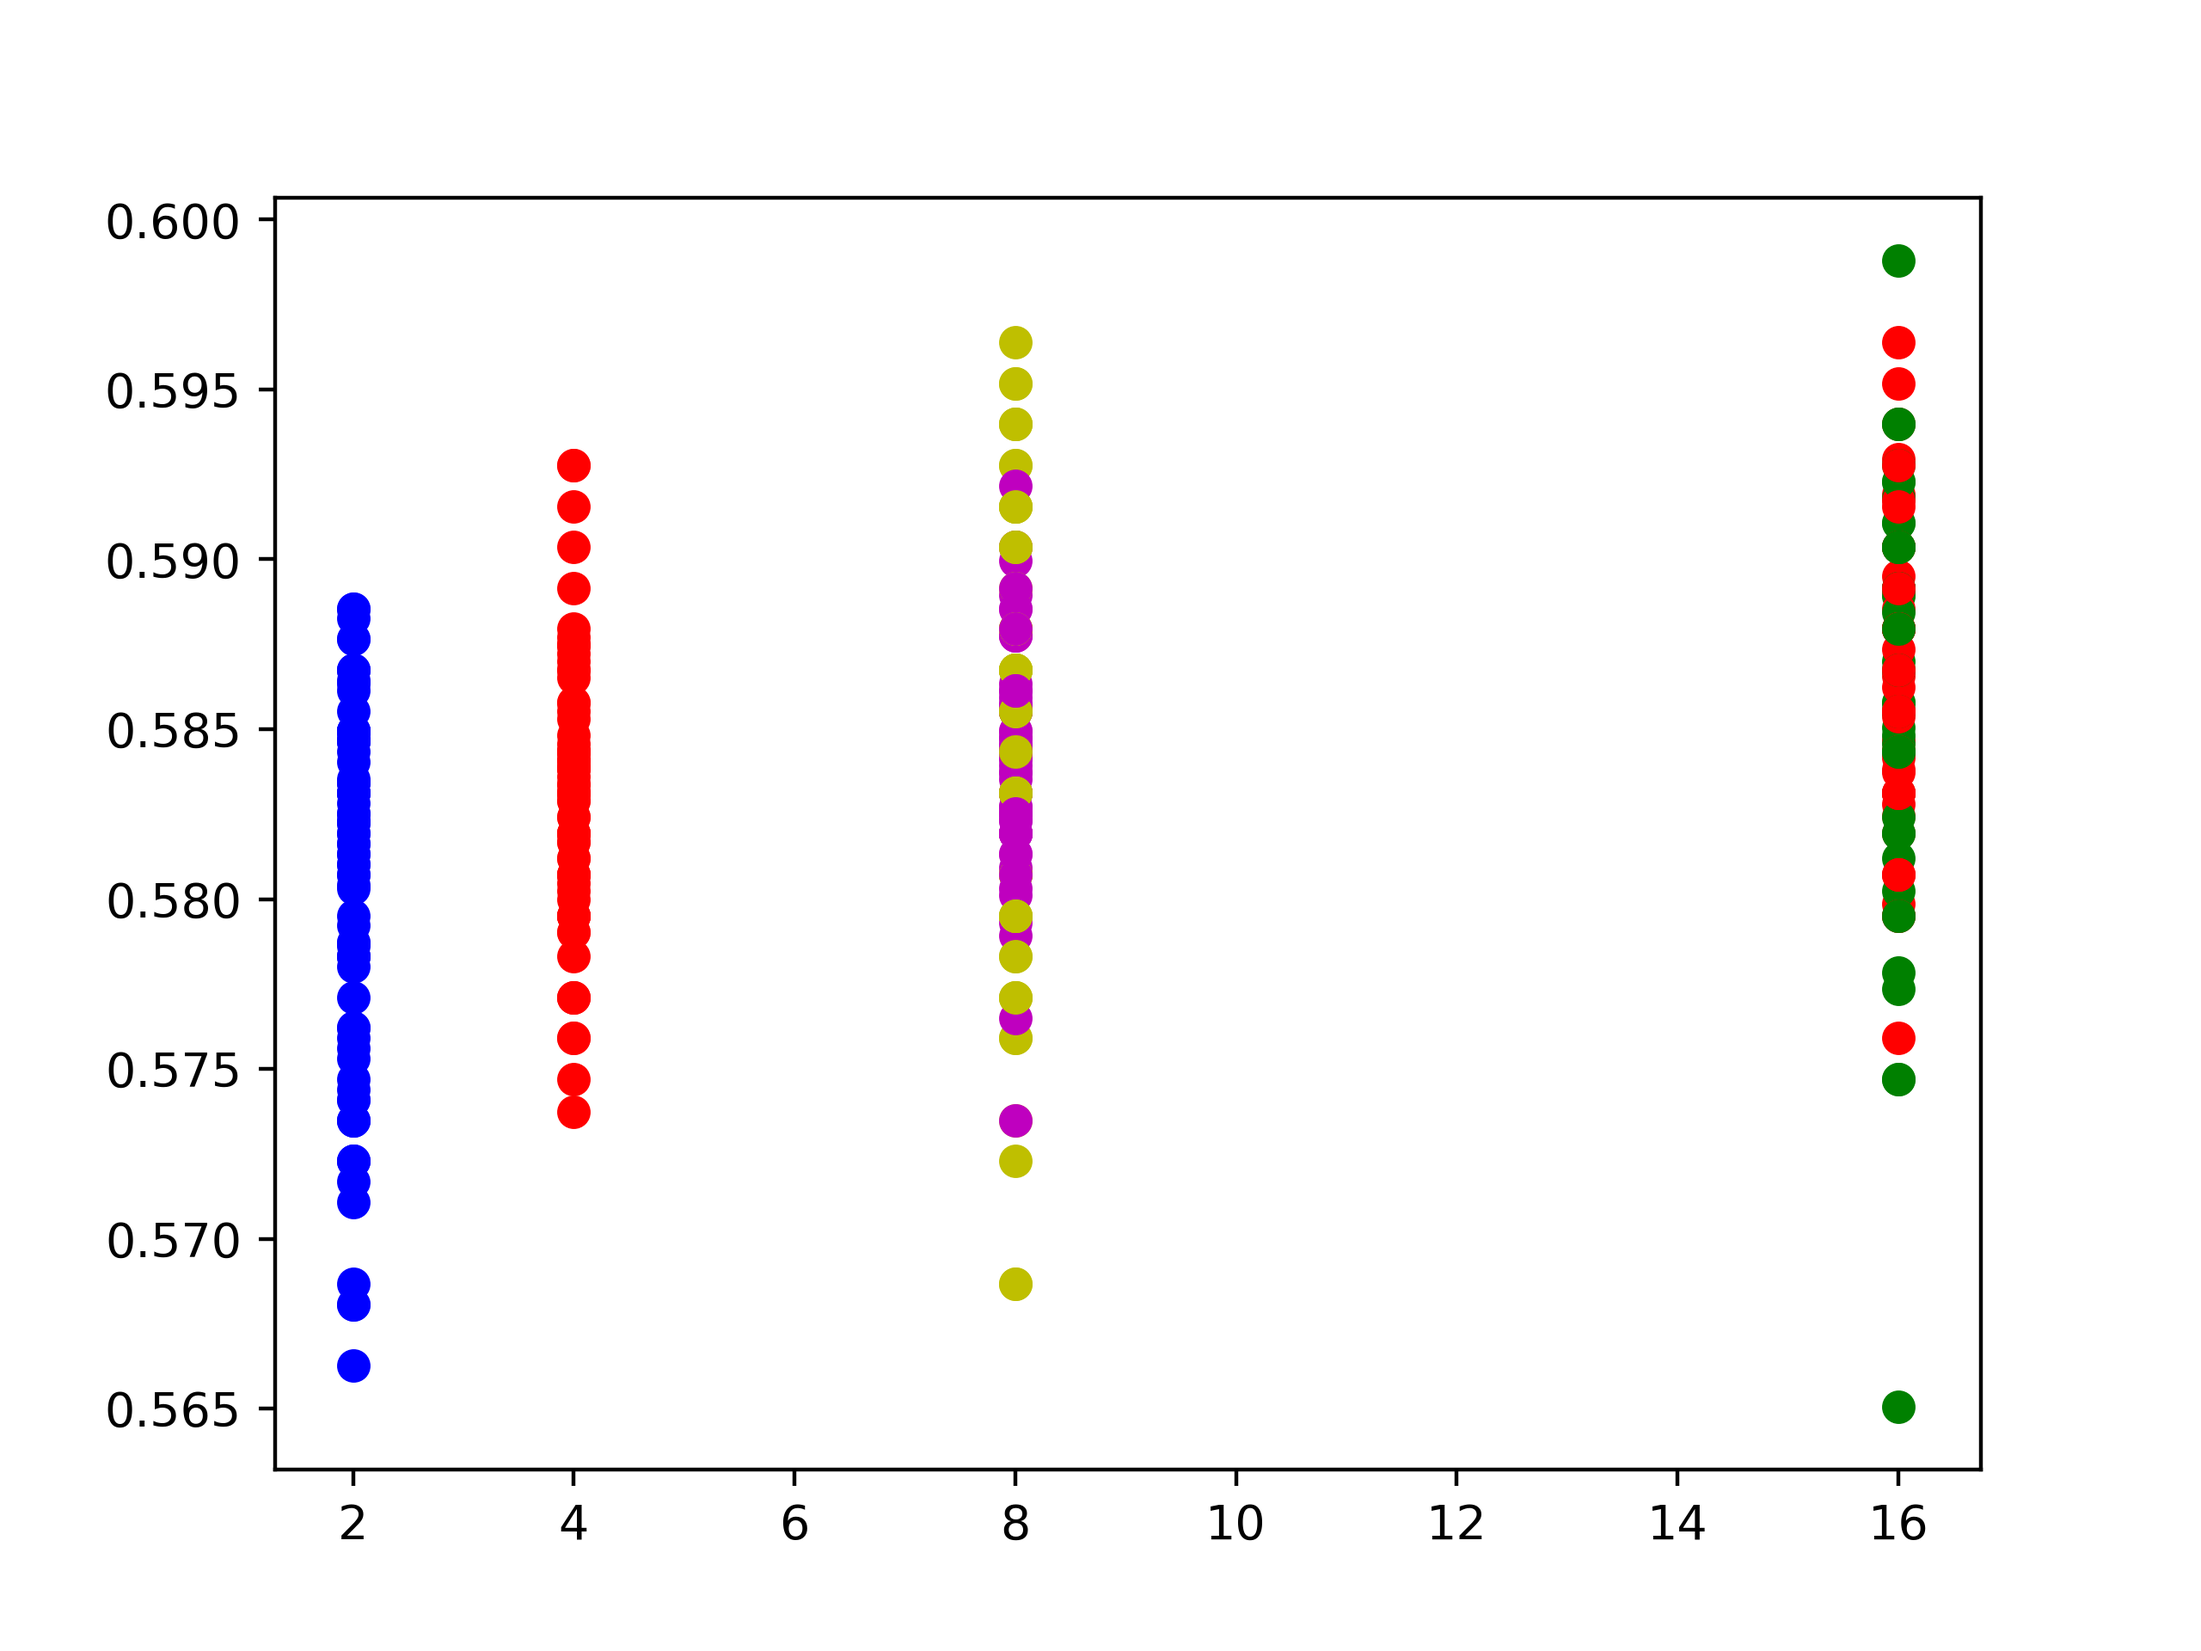
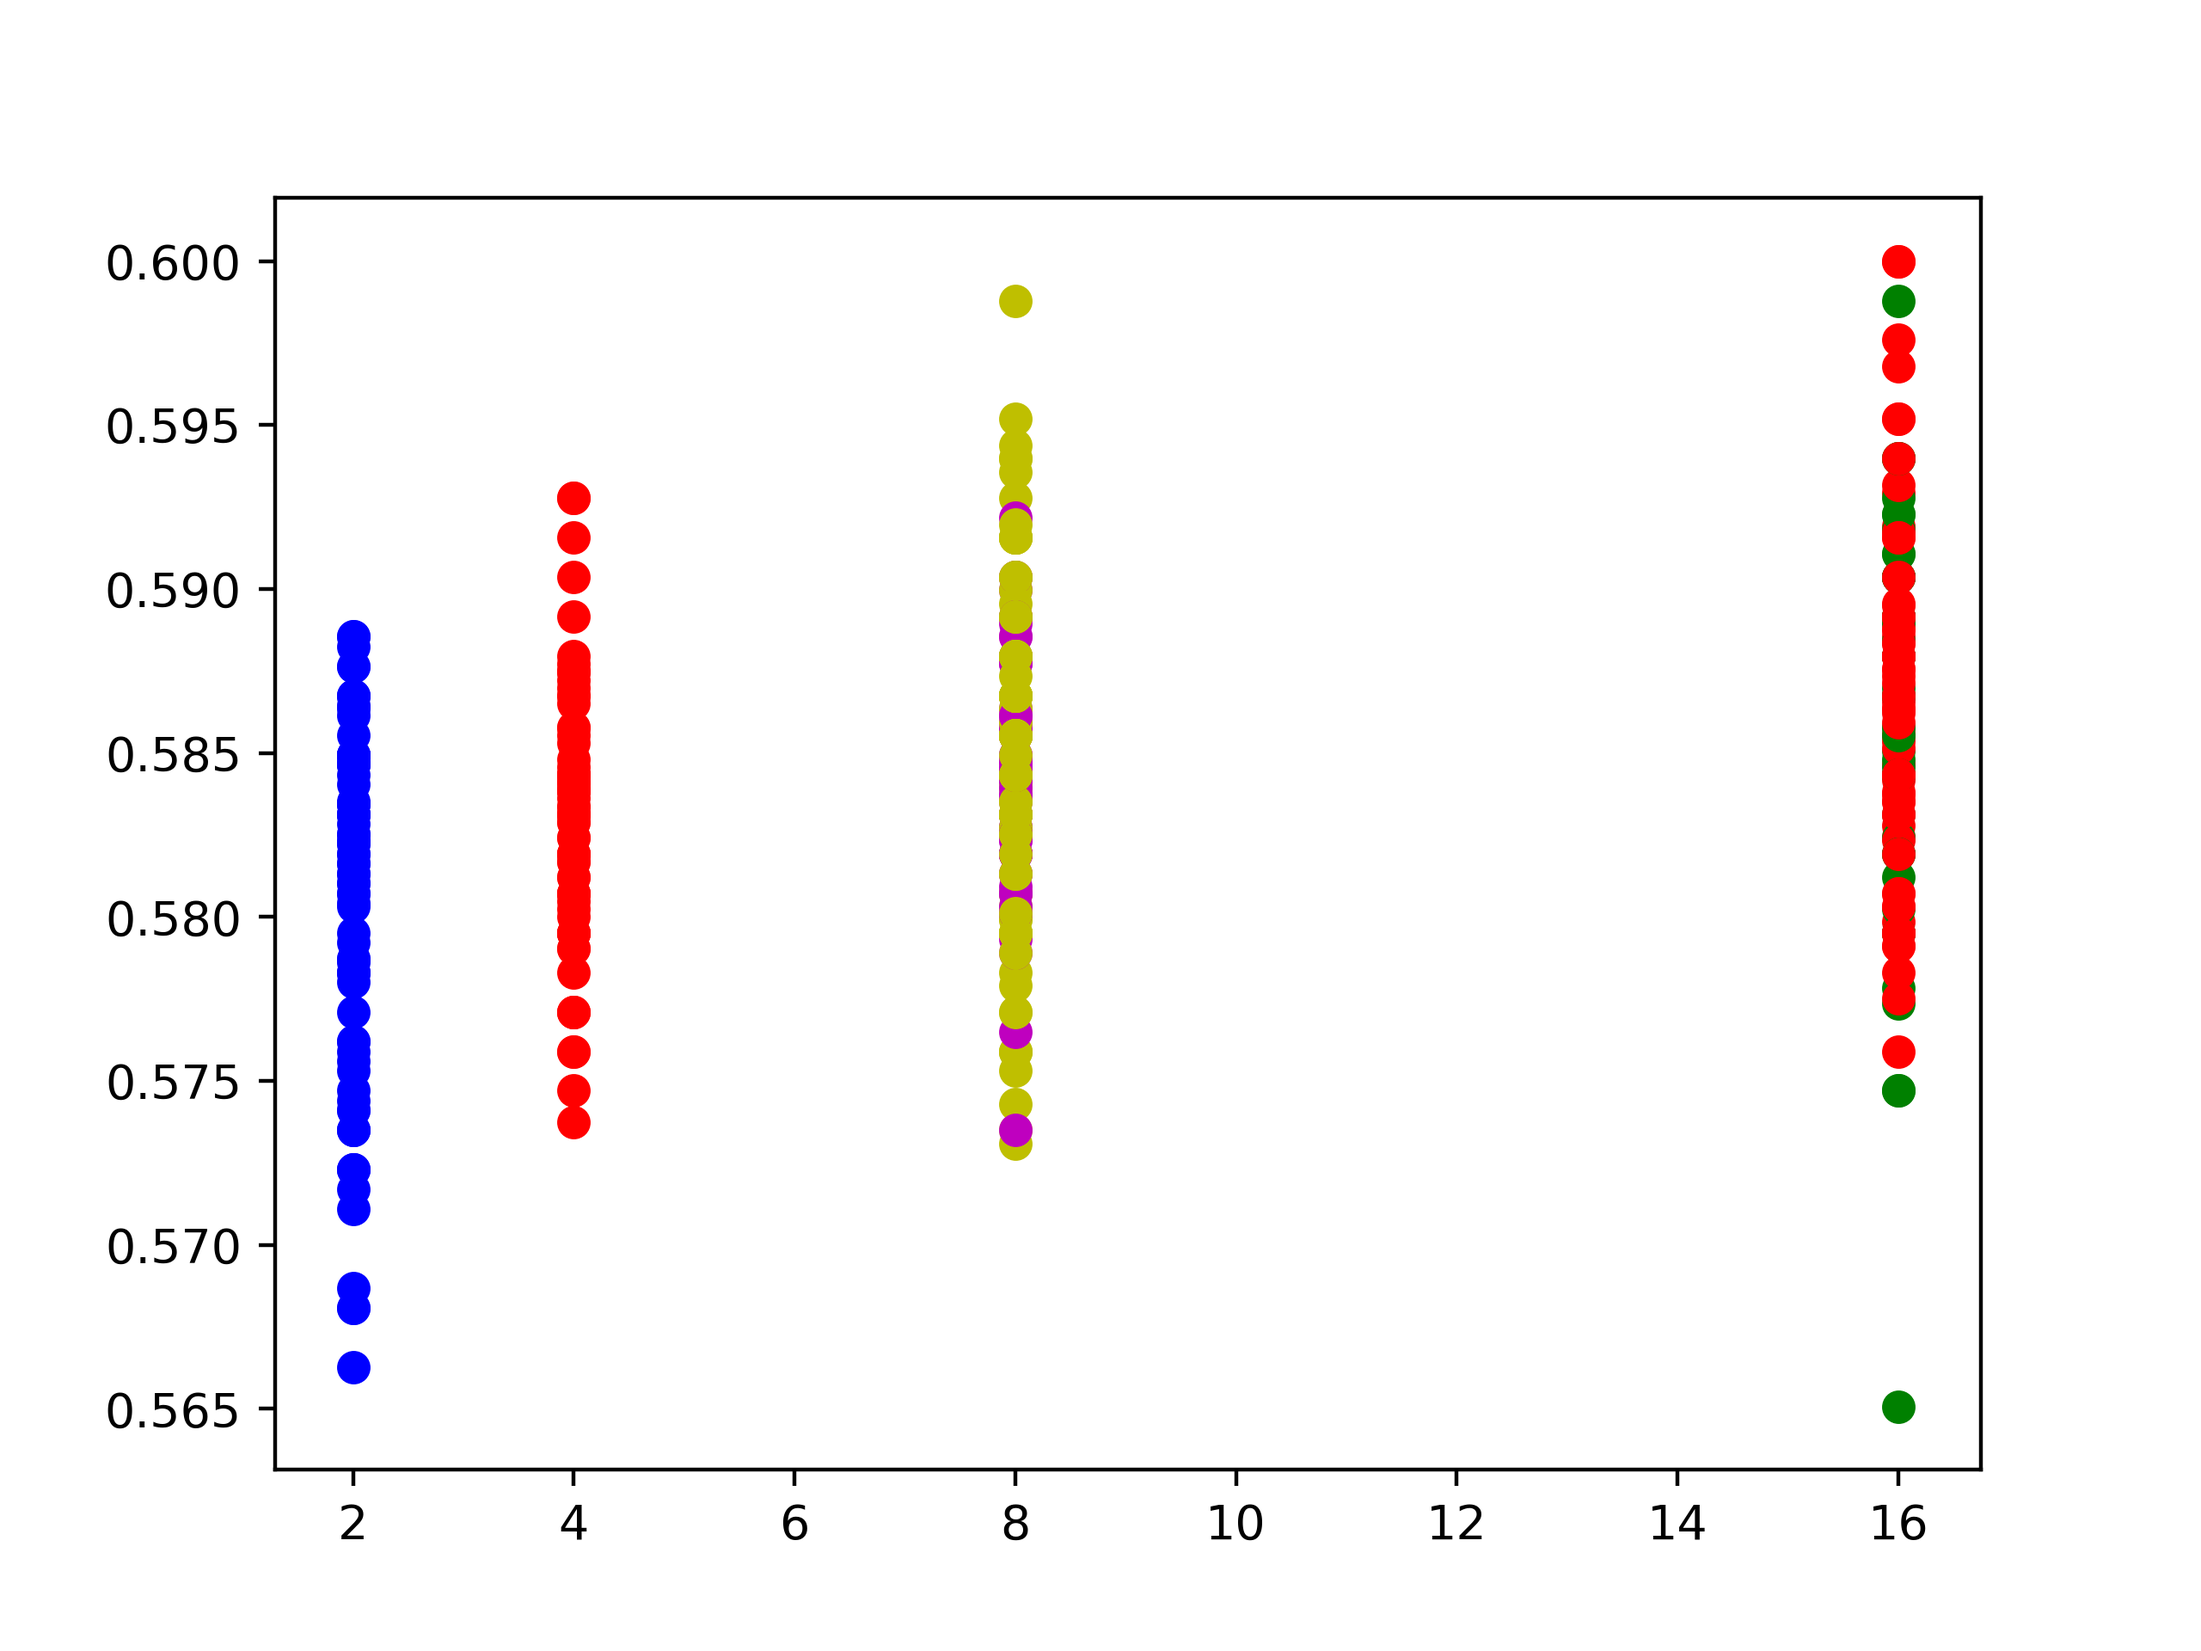
added all plots

diff --git a/results/DataTable.py b/results/DataTable.py
@@ -68,33 +68,43 @@ class DataTable:
         plt.clf()
 
     def plotFilters(self, ax, results_name, display_mode):
+        plt.title("b > g > y > r | m - \"128, 64, 32\"")
         for dataList in self.dTable:
             filters = str(dataList.getFirst().dataConfig.filters)
             label = ""
             if (
-                filters == "[16, 64, 64, 128]"
-                or filters == "[32, 64, 128]"
+                filters == "[64, 64, 64, 128]"
+                or filters == "[64, 64, 128]"
                 or filters == "[64, 128]"
                 or filters == "[128]"
             ):
                 c = "b"
             elif (
-                filters == "[16, 32, 64, 128]"
-                or filters == "[32, 64, 64]"
+                filters == "[16, 64, 64, 128]"
+                or filters == "[32, 64, 128]"
                 or filters == "[64, 64]"
                 or filters == "[64]"
             ):
                 c = "g"
             elif (
-                filters == "[16, 32, 64]"
+                filters == "[16, 32, 64, 128]"
+                or filters == "[32, 64, 64]"
                 or filters == "[32, 64]"
                 or filters == "[32]"
             ):
+                c = "y"
+            elif (
+                filters == "[16, 32, 64]"
+            ):
                 c = "r"
+            elif (
+                filters == "[128, 64, 32]"
+            ):
+                c = "m"
             else:
                 c = "k"
                 label = filters
-            dataList.scatterPlot(ax, colour = c, label = label)
+            dataList.scatterPlot(ax, colour = c, anno = label)
 
         if display_mode == "show":
             plt.show()
@@ -115,7 +125,7 @@ class DataTable:
             else:
                 c = "k"
                 label = steps
-            dataList.scatterPlot(ax, colour = c, label = label)
+            dataList.scatterPlot(ax, colour = c, anno = label)
 
         plt.title("b - 200000, g - 100000, r - 50000")
         if display_mode == "show":

diff --git a/results/plot_results.py b/results/plot_results.py
@@ -44,8 +44,8 @@ def plot_file(results_name):
     #dataTable.plotDense(ax, results_name, "save")
     #dataTable.plotSizes(ax, results_name, "save")
     #dataTable.plotSteps(ax, results_name, "save")
-    #dataTable.plotFilters(ax, results_name, "save")
-    dataTable.plotCountWithConfigName(ax, results_name, "save")
+    dataTable.plotFilters(ax, results_name, "save")
+    #dataTable.plotCountWithConfigName(ax, results_name, "save")
 
     config = open(results_name  + "_configs.txt", "w+")
     config.write(dataTable.getConfigs())
